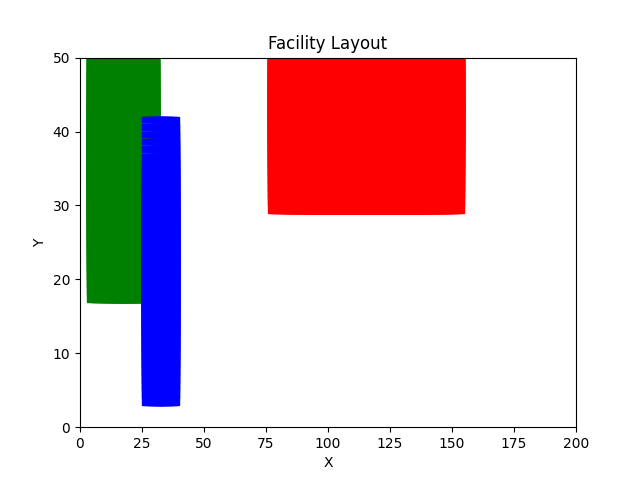
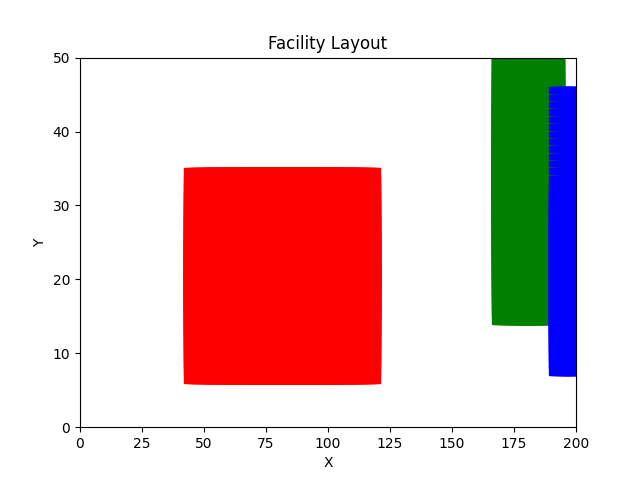
initial commit

diff --git a/app.py b/app.py
@@ -6,8 +6,10 @@ st.write("This is a simple text. This will be description for the project")
 
 st.header("Input for Facility Dimensions") # Part 1
 st.write("Part 1: Input Facility width and height")
-F_w = st.number_input("Insert a Facility Width", value=0, placeholder="Width...")
-F_l = st.number_input("Insert a Facility Length", value=0, placeholder="Height...")
+
+left_column, right_column = st.columns(2)
+F_w = left_column.number_input("Insert a Facility Width", value=0, placeholder="Width...")
+F_l = right_column.number_input("Insert a Facility Length", value=0, placeholder="Height...")
 st.write('The facilty width is ', F_w)
 st.write('The facility length is ', F_l)
 
@@ -189,7 +191,7 @@ departments = [
   # Add more departments as needed
 ]
 
-facility = Facility(F_l, F_w)
+facility = Facility(200, 50)
 # departments = [L, W, adj]
 
 output = ALDEP(facility, departments)
